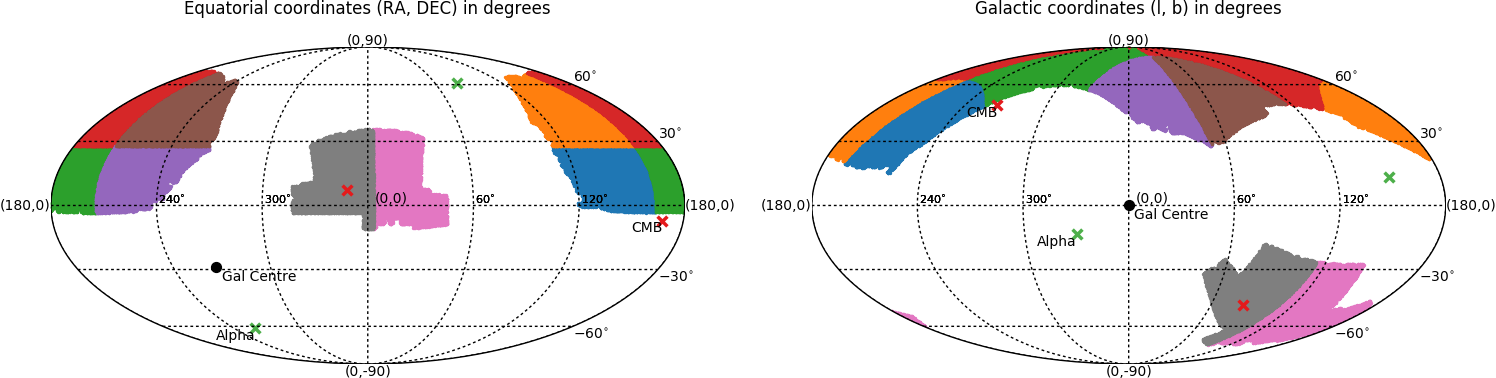
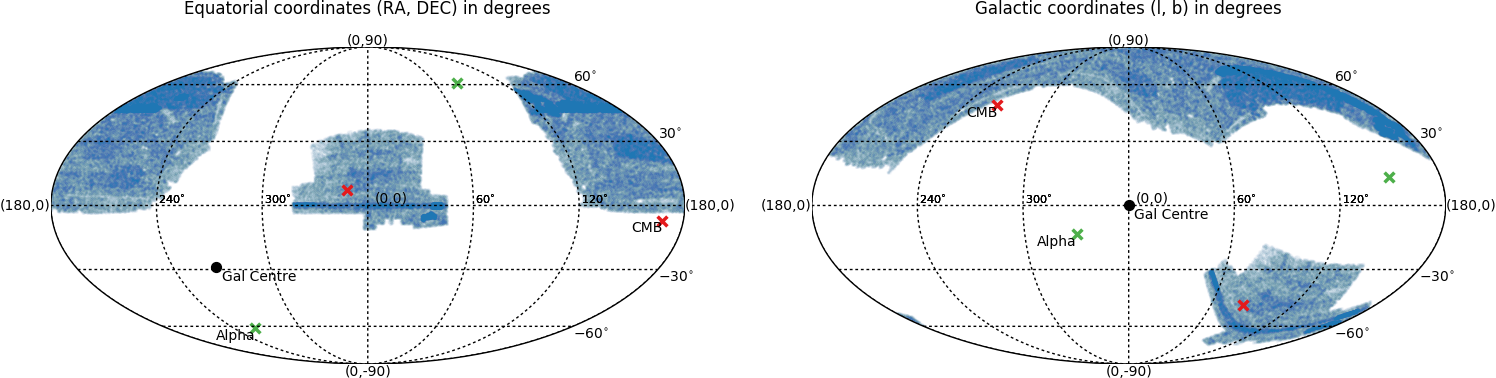
Examples added.

diff --git a/sky_plot.py b/sky_plot.py
@@ -143,6 +143,6 @@ for b in (-60,-30,30,60):
 
 #plt.tight_layout()
 if '--save' in sys.argv:
-    fname = 'example/sdss_example2.png'
+    fname = 'example/sdss_example1.png'
     plt.savefig(fname,bbox_inches='tight', pad_inches=0)
 plt.show()

diff --git a/README.md b/README.md
@@ -34,6 +34,10 @@ One of the two options above must be specified.
 
 ## Examples
 
+Single patch (one list specified) with transparency:
+
 ![SDSS example 1](example/sdss_example1.png)
+
+Multiple patches (8 lists specified) with no transparency:
 
 ![SDSS example 2](example/sdss_example1.png)
